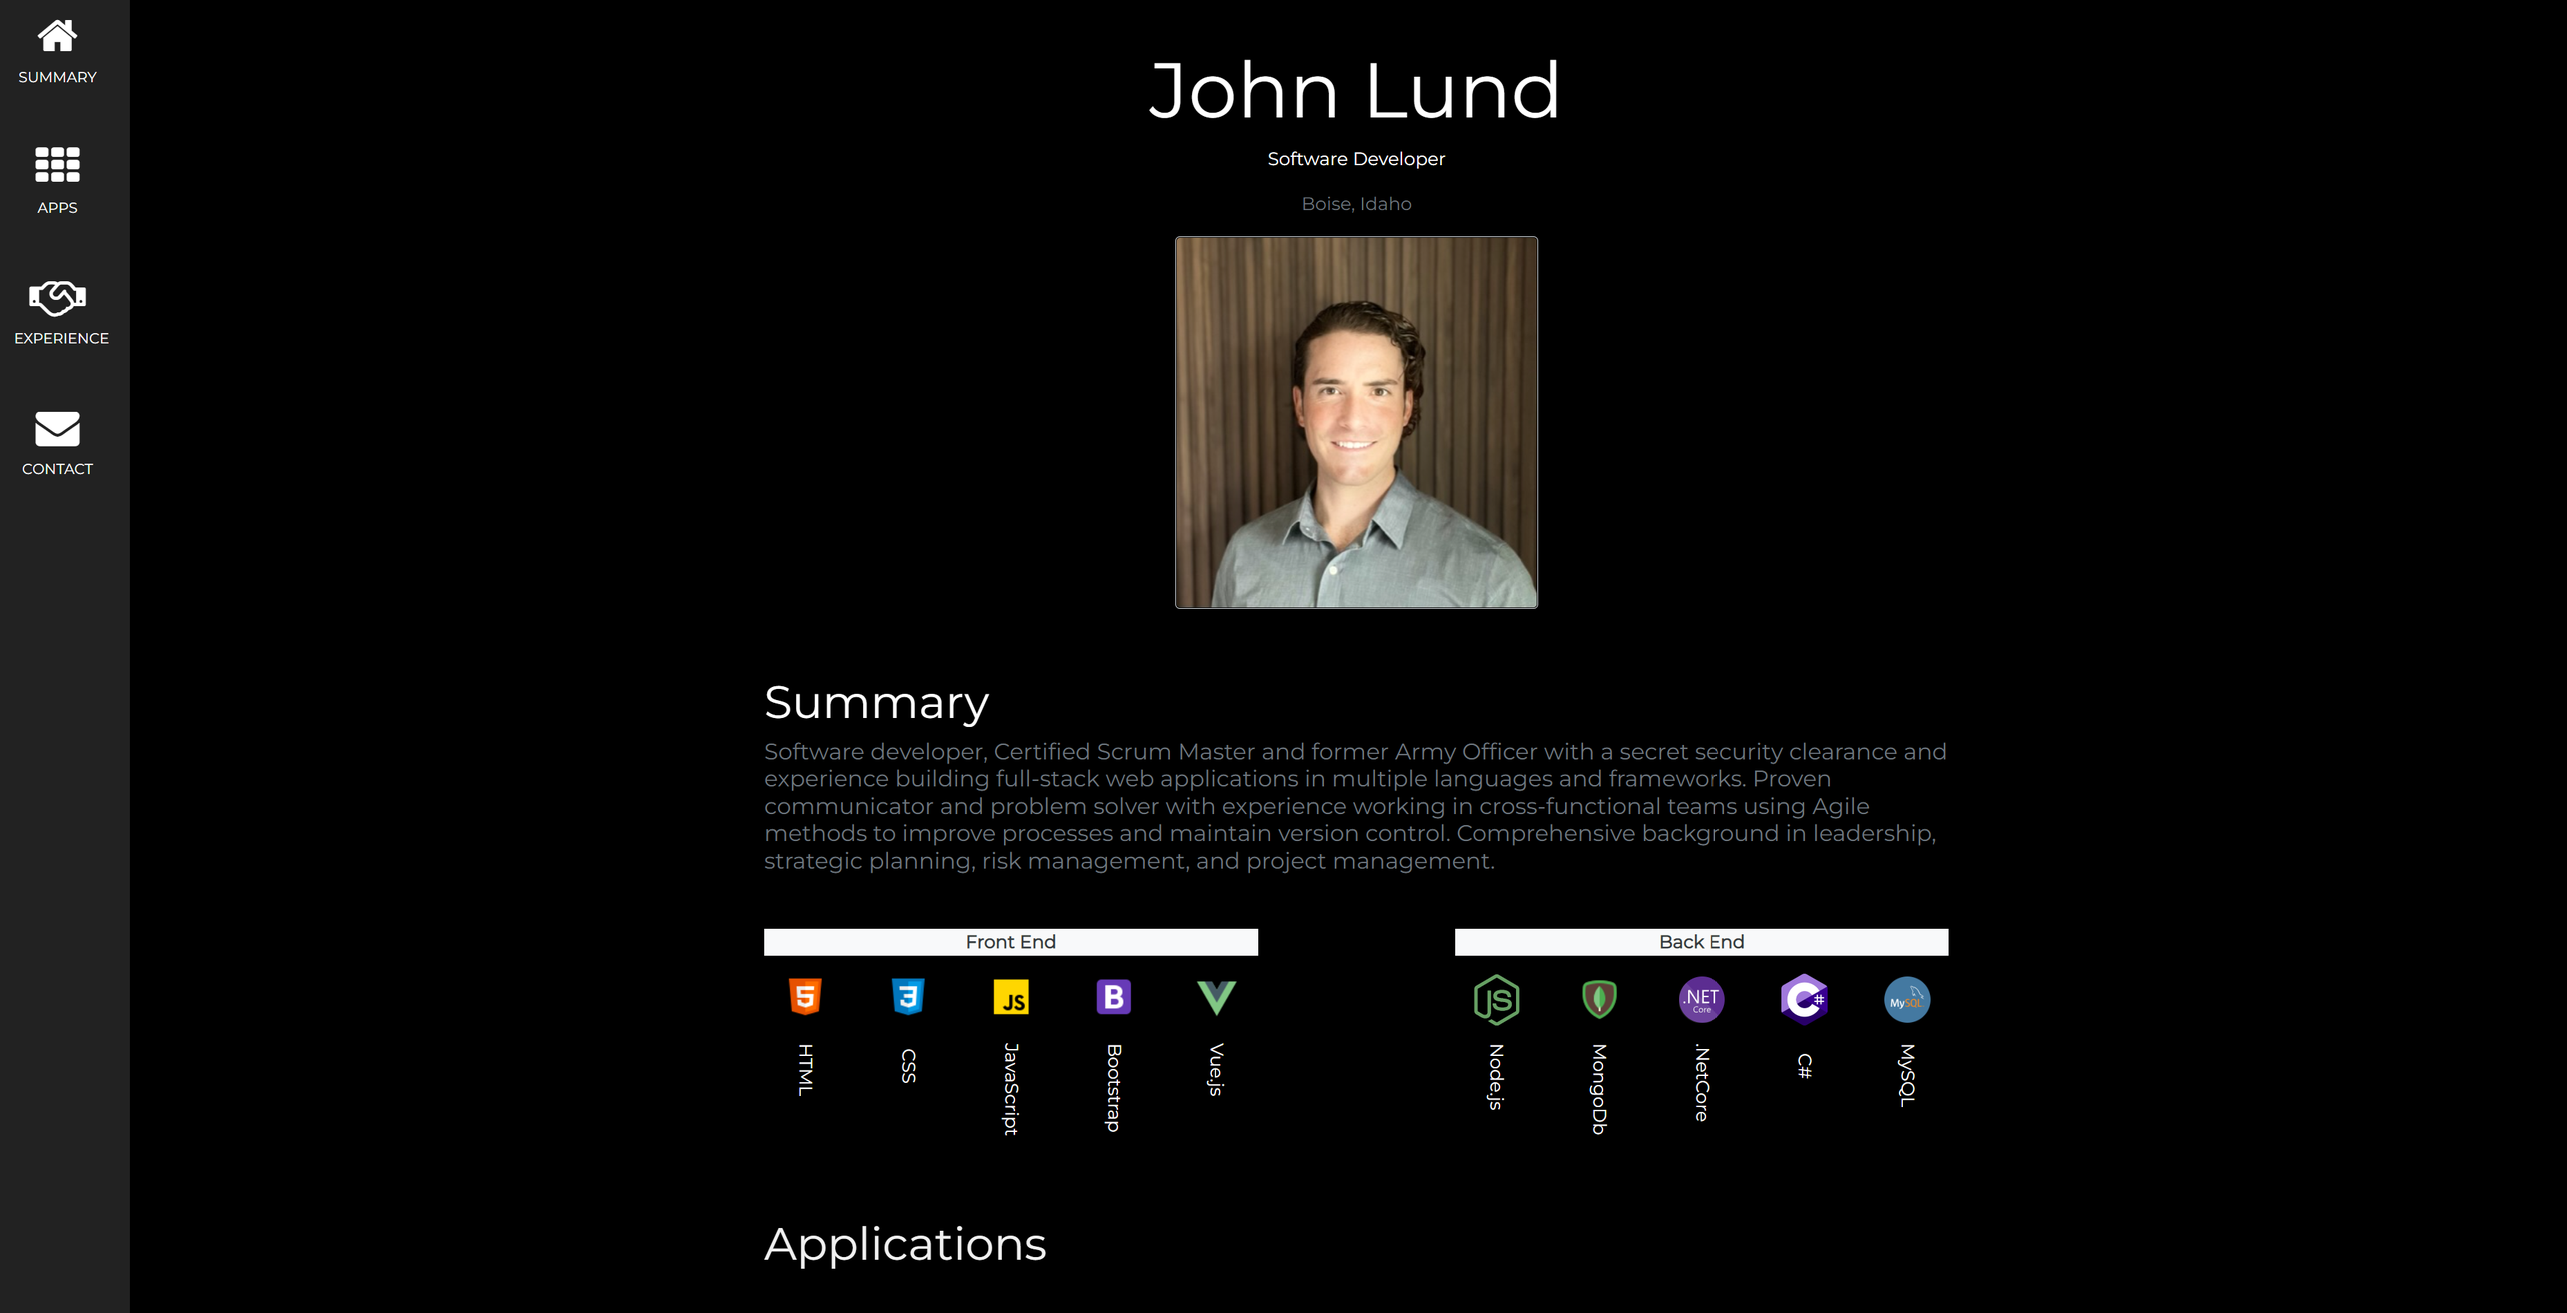
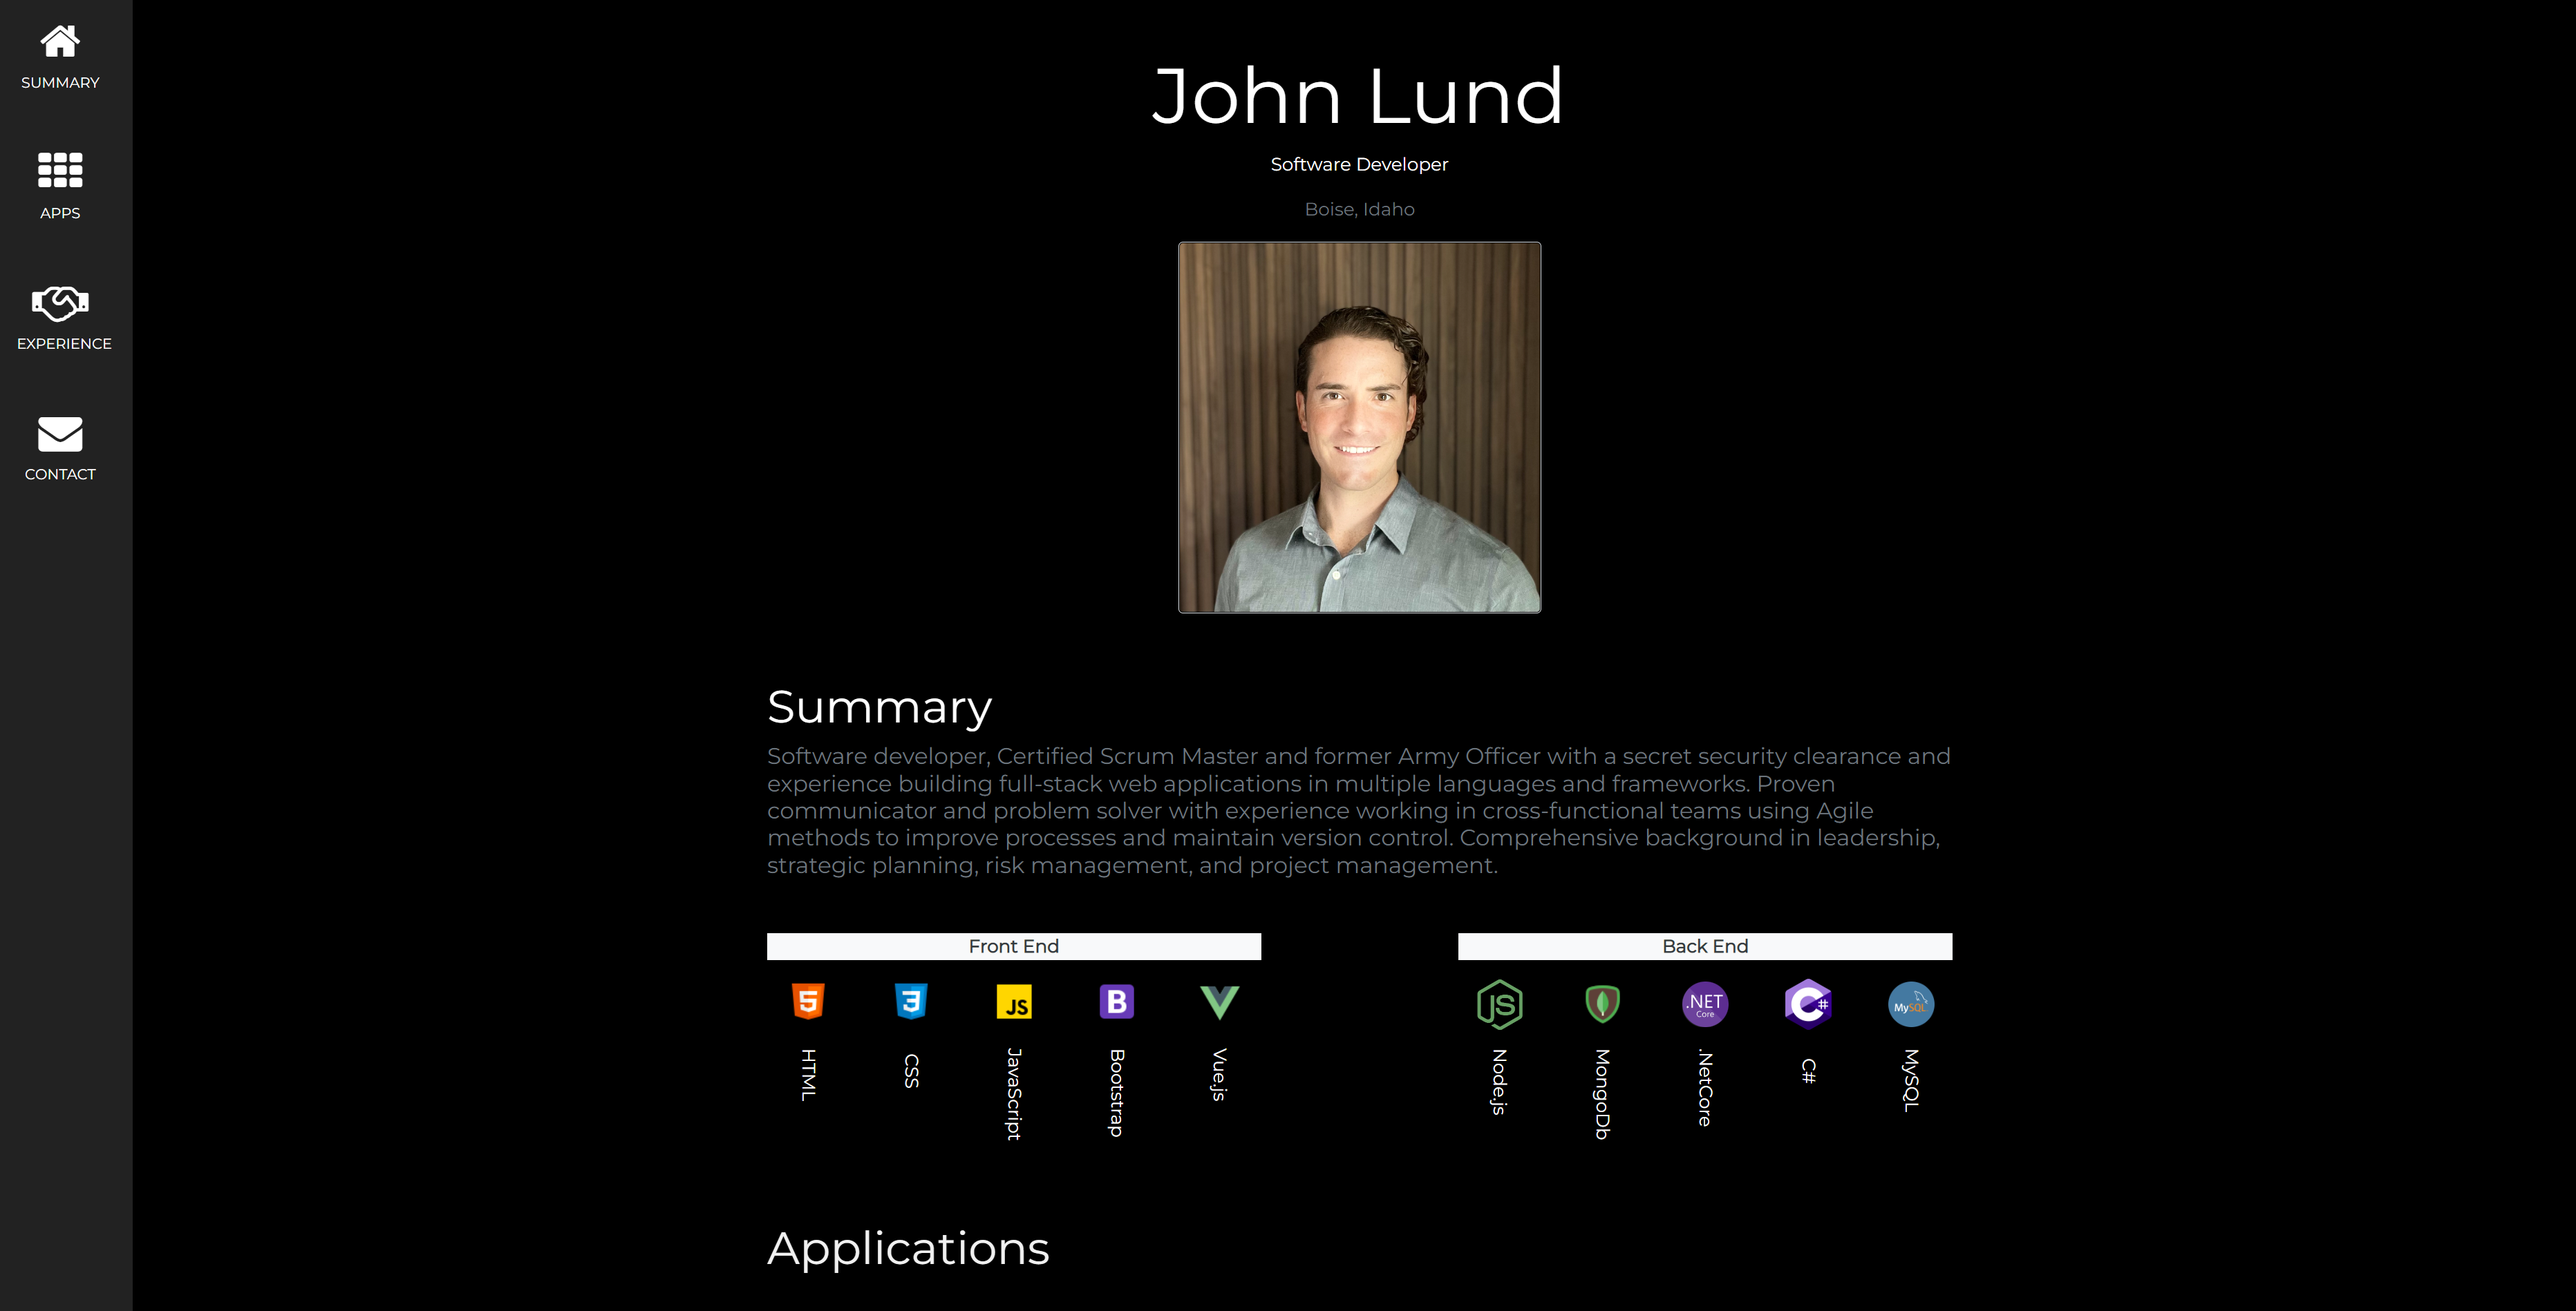
new resume link and summary

diff --git a/index.html b/index.html
@@ -57,9 +57,9 @@
         <!-- Summary Section -->
         <div class="w3-content py-4" id="summary">
             <h1 class="">Summary</h1>
-            <h5 class="text-secondary">
-                Software developer, Certified Scrum Master and former Army Officer with a secret security clearance and experience building full-stack web applications in multiple languages and frameworks. Proven communicator and problem solver with experience working in cross-functional teams using Agile methods to improve processes and maintain version control. Comprehensive background in leadership, strategic planning, risk management, and project management.
-            </h5>
+            <h4 class="text-secondary">
+                Dedicated Software Developer with 2+ years of professional experience building full-stack web applications with multiple languages and frameworks. An additional 7 years of experience as a U.S. Army Officer with a comprehensive background in leadership, strategic planning, risk management, and project management. Proven communicator and problem solver, skilled at working in cross-functional teams using Agile methods to improve processes and maintain source control.
+            </h4>
             <div class="container mt-5">
                 <div class="row text-center justify-content-center justify-content-xl-between" id="applications">
                     <div class="col-12 col-md-7 col-xl-5 bg-light text-dark order-0 "><b>Front End</b></div>
@@ -170,39 +170,39 @@
         <div class="w3-padding-64 w3-content" id="experience">
             <h1 class=" pb-5">Experience</h1>
 
-            <h5>Software Engineer / Technical Lead <span class="text-secondary">- In Time Tec - Boise, Idaho &nbsp;&nbsp;</span><span>( Nov 2020 - Current )</span>
-            </h5>
+            <h4>Software Engineer / Technical Lead <span class="text-secondary">- In Time Tec - Boise, Idaho &nbsp;&nbsp;</span><span>( Nov 2020 - Current )</span>
+            </h4>
 
             <ul class="p-2">
-                <li class="text-secondary pt-3">Technical lead for $11M modernization initiative for the Idaho Industrial Commission, using extensive knowledge in Microsoft Dynamics, JavaScript, and C# to become the top-performing scrum team project wide</li>
-                <li class="text-secondary pt-3">Fulfilled goals from over 40 sprints, employing Agile methodology and focusing on maintainability in accordance with object-oriented principles to consistently meet or exceed client expectations</li>
-                <li class="text-secondary pt-3">Collaborate with stakeholders, external partners, and scrum teams to create innovative solutions to functional requirements using proven communication skills to articulate complex technical concepts</li>
-                <li class="text-secondary pt-3 pb-5">Standardized key components of technical documentation and Azure DevOps automated pipelines to improve team communication, system reliability, and client trust</li>
+                <li class="largerText text-secondary pt-3">Technical lead for $11M modernization initiative for the Idaho Industrial Commission, using extensive knowledge in Microsoft Dynamics, JavaScript, and C# to become the top-performing scrum team project wide</li>
+                <li class="largerText text-secondary pt-3">Fulfilled goals from over 40 sprints, employing Agile methodology and focusing on maintainability in accordance with object-oriented principles to consistently meet or exceed client expectations</li>
+                <li class="largerText text-secondary pt-3">Collaborate with stakeholders, external partners, and scrum teams to create innovative solutions to functional requirements using proven communication skills to articulate complex technical concepts</li>
+                <li class="largerText text-secondary pt-3 pb-5">Standardized key components of technical documentation and Azure DevOps automated pipelines to improve team communication, system reliability, and client trust</li>
             </ul>
 
-            <h5>Software Developer Student <span class="text-secondary">- Boise CodeWorks &nbsp;&nbsp;</span><span>( Jun - Sep 2020 )</span>
-            </h5>
+            <h4>Software Developer Student <span class="text-secondary">- Boise CodeWorks &nbsp;&nbsp;</span><span>( Jun - Sep 2020 )</span>
+            </h4>
 
             <ul class="p-2">
-                <li class="text-secondary pt-3 pb-5">Built numerous full-stack applications in an immersive, full-time developer course. Applied Scrum methodology to enhance collaboration with colleagues in order to communicate effectively and achieve planned outcomes.</li>
+                <li class="largerText text-secondary pt-3 pb-5">Built numerous full-stack applications in an immersive, full-time developer course. Applied Scrum methodology to enhance collaboration with colleagues in order to communicate effectively and achieve planned outcomes.</li>
             </ul>
 
-            <h5>United States Army Officer <span class="text-secondary">- Various Locations &nbsp;&nbsp;</span><span>( Apr 2013 - May 2020 )</span>
-            </h5>
+            <h4>United States Army Officer <span class="text-secondary">- Various Locations &nbsp;&nbsp;</span><span>( Apr 2013 - May 2020 )</span>
+            </h4>
             <ul class="text-white p-2">Operations Manager
-                <li class="text-secondary pt-3">Prepared and orchestrated a federal inspection preparation initiative for a 110-person unit leading to a first-time passing score that directly mitigated risk and reduced training costs by $35,000 year over year.</li>
-                <li class="text-secondary pt-3">Planned and coordinated operations for a 430-person squadron using a daily, deliberate project management process resulting in a rapid-deployment validation and unit citation for excellence.</li>
+                <li class="largerText text-secondary pt-3">Prepared and orchestrated a federal inspection preparation initiative for a 110-person unit leading to a first-time passing score that directly mitigated risk and reduced training costs by $35,000 year over year.</li>
+                <li class="largerText text-secondary pt-3">Planned and coordinated operations for a 430-person squadron using a daily, deliberate project management process resulting in a rapid-deployment validation and unit citation for excellence.</li>
             </ul>
             <ul class="text-white p-2">Training Administrator
-                <li class="text-secondary pt-3">Designed and implemented an 18-month training program while directly
+                <li class="largerText text-secondary pt-3">Designed and implemented an 18-month training program while directly
                     leading a team of 36 people culminating in the external certification of the team's operational
                     readiness within budget and with zero injuries.</li>
-                <li class="text-secondary pt-3">Prepared weekly written and oral intelligence briefings for
+                <li class="largerText text-secondary pt-3">Prepared weekly written and oral intelligence briefings for
                     executive-level leadership over a 16-month period enabling managers to adapt in an ambiguous
                     environment while upholding safety and readiness standards.</li>
             </ul>
 
-            <a class=" mt-5 w3-button w3-light-grey w3-padding-large w3-section" href="https://drive.google.com/file/d/1Z49yVHi_UHKbswbSLhlhc2ZDlimYDic_/view?usp=sharing" target="_blank">
+            <a class=" mt-5 w3-button w3-light-grey w3-padding-large w3-section" href="https://drive.google.com/file/d/1zC3ehI9AYT7WC-0qmD0vrZphR1vcrrKI/view?usp=sharing" target="_blank">
                 <i class="fa fa-download"></i> Download Resume
             </a>
 
@@ -229,10 +229,6 @@
                         john.david.lund@gmail.com
                     </a>
                 </p>
-                <p class="col-12 col-xl-2">
-                    <a href="https://github.com/JohnDLund" target="_blank" class="text-white">
-                        <i class="fa fa-github fa-fw w3-xlarge w3-margin-right"></i>GitHub
-                    </a>
             </div>
 
             <!-- End Contact Section -->

diff --git a/style.css b/style.css
@@ -5,7 +5,8 @@ h3,
 h4,
 h5,
 h6 {
-    font-family: "Montserrat", sans-serif
+    font-family: "Montserrat", sans-serif;
+    font-weight: 600;
 }
 
 .w3-row-padding img {
@@ -42,4 +43,8 @@ img {
 
 html {
     scroll-behavior: smooth;
+}
+
+.largerText {
+    font-size: 1.2rem;
 }
